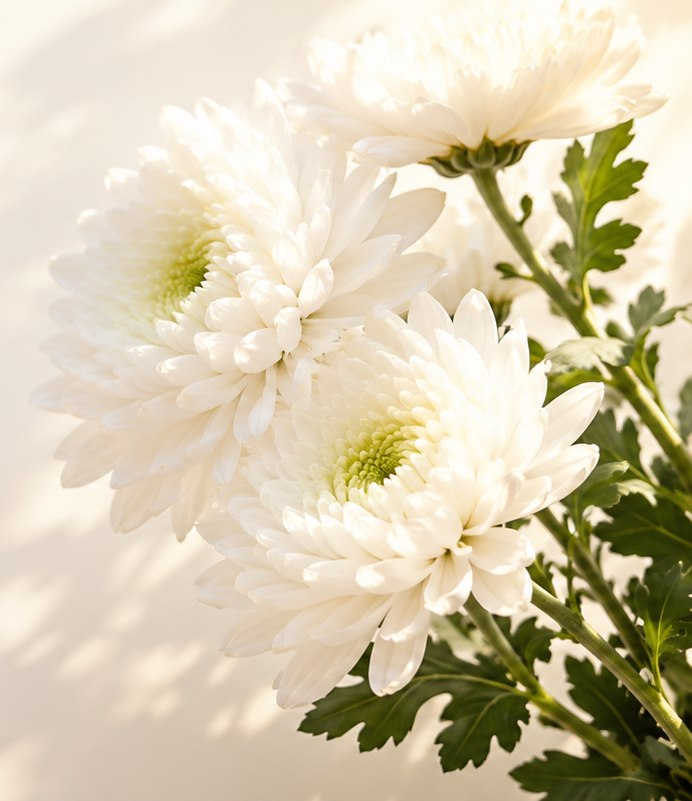
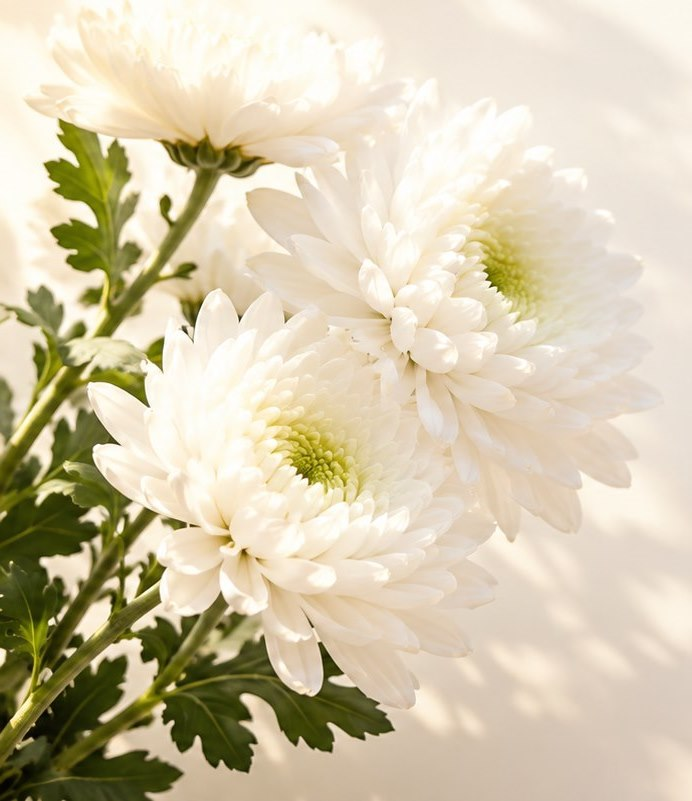
히어로 국화 좌우반전(꽃송이 우상단 노출) + 위치·캐시 조정 (m119)

diff --git a/hero-modern.css b/hero-modern.css
@@ -51,9 +51,9 @@
     content:"";
     position:absolute; top:-2%; right:-4%;
     width:60%; height:60%;
-    background:url('hero-chrys.jpg') no-repeat right top;
+    background:url('hero-chrys.jpg?v=2') no-repeat right 28%;
     background-size:cover;
-    opacity:.34;
+    opacity:.36;
     mix-blend-mode:screen;
     -webkit-mask-image:radial-gradient(115% 100% at 100% 0%, #000 18%, rgba(0,0,0,.42) 46%, transparent 74%);
             mask-image:radial-gradient(115% 100% at 100% 0%, #000 18%, rgba(0,0,0,.42) 46%, transparent 74%);

diff --git a/index.html b/index.html
@@ -17,7 +17,7 @@
 <link href="https://fonts.googleapis.com/css2?family=Noto+Serif+KR:wght@400;500;700;900&family=Noto+Sans+KR:wght@400;500;700;900&display=swap" rel="stylesheet">
 <link rel="stylesheet" href="style.css?v=20260722-ui2">
 <link rel="stylesheet" href="hero119-v4.css?v=20260722-ui2">
-<link rel="stylesheet" href="hero-modern.css?v=20260727-m118">
+<link rel="stylesheet" href="hero-modern.css?v=20260727-m119">
 </head>
 <body>
 <nav class="nav">

diff --git a/family.html b/family.html
@@ -14,7 +14,7 @@
 <link rel="preconnect" href="https://fonts.gstatic.com" crossorigin>
 <link href="https://fonts.googleapis.com/css2?family=Noto+Serif+KR:wght@400;500;700;900&family=Noto+Sans+KR:wght@400;500;700;900&display=swap" rel="stylesheet">
 <link rel="stylesheet" href="style.css">
-<link rel="stylesheet" href="hero-modern.css?v=20260727-m118">
+<link rel="stylesheet" href="hero-modern.css?v=20260727-m119">
 </head>
 <body>
 <nav class="nav">

diff --git a/faq.html b/faq.html
@@ -13,7 +13,7 @@
 <link rel="preconnect" href="https://fonts.gstatic.com" crossorigin>
 <link href="https://fonts.googleapis.com/css2?family=Noto+Serif+KR:wght@400;500;700;900&family=Noto+Sans+KR:wght@400;500;700;900&display=swap" rel="stylesheet">
 <link rel="stylesheet" href="style.css">
-<link rel="stylesheet" href="hero-modern.css?v=20260727-m118">
+<link rel="stylesheet" href="hero-modern.css?v=20260727-m119">
 </head>
 <body>
 <nav class="nav">

diff --git a/hall-bukgu.html b/hall-bukgu.html
@@ -14,7 +14,7 @@
 <link rel="preconnect" href="https://fonts.gstatic.com" crossorigin>
 <link href="https://fonts.googleapis.com/css2?family=Noto+Serif+KR:wght@400;500;700;900&family=Noto+Sans+KR:wght@400;500;700;900&display=swap" rel="stylesheet">
 <link rel="stylesheet" href="style.css">
-<link rel="stylesheet" href="hero-modern.css?v=20260727-m118">
+<link rel="stylesheet" href="hero-modern.css?v=20260727-m119">
 </head>
 <body>
 <nav class="nav">

diff --git a/hall-detail-1000000427.html b/hall-detail-1000000427.html
@@ -14,7 +14,7 @@
 <link rel="preconnect" href="https://fonts.gstatic.com" crossorigin>
 <link href="https://fonts.googleapis.com/css2?family=Noto+Serif+KR:wght@400;500;700;900&family=Noto+Sans+KR:wght@400;500;700;900&display=swap" rel="stylesheet">
 <link rel="stylesheet" href="style.css">
-<link rel="stylesheet" href="hero-modern.css?v=20260727-m118">
+<link rel="stylesheet" href="hero-modern.css?v=20260727-m119">
 </head>
 <body>
 <nav class="nav">

diff --git a/hall-detail-1000000453.html b/hall-detail-1000000453.html
@@ -14,7 +14,7 @@
 <link rel="preconnect" href="https://fonts.gstatic.com" crossorigin>
 <link href="https://fonts.googleapis.com/css2?family=Noto+Serif+KR:wght@400;500;700;900&family=Noto+Sans+KR:wght@400;500;700;900&display=swap" rel="stylesheet">
 <link rel="stylesheet" href="style.css">
-<link rel="stylesheet" href="hero-modern.css?v=20260727-m118">
+<link rel="stylesheet" href="hero-modern.css?v=20260727-m119">
 </head>
 <body>
 <nav class="nav">

diff --git a/hall-detail-1000000484.html b/hall-detail-1000000484.html
@@ -14,7 +14,7 @@
 <link rel="preconnect" href="https://fonts.gstatic.com" crossorigin>
 <link href="https://fonts.googleapis.com/css2?family=Noto+Serif+KR:wght@400;500;700;900&family=Noto+Sans+KR:wght@400;500;700;900&display=swap" rel="stylesheet">
 <link rel="stylesheet" href="style.css">
-<link rel="stylesheet" href="hero-modern.css?v=20260727-m118">
+<link rel="stylesheet" href="hero-modern.css?v=20260727-m119">
 </head>
 <body>
 <nav class="nav">

diff --git a/hall-detail-1000000658.html b/hall-detail-1000000658.html
@@ -14,7 +14,7 @@
 <link rel="preconnect" href="https://fonts.gstatic.com" crossorigin>
 <link href="https://fonts.googleapis.com/css2?family=Noto+Serif+KR:wght@400;500;700;900&family=Noto+Sans+KR:wght@400;500;700;900&display=swap" rel="stylesheet">
 <link rel="stylesheet" href="style.css">
-<link rel="stylesheet" href="hero-modern.css?v=20260727-m118">
+<link rel="stylesheet" href="hero-modern.css?v=20260727-m119">
 </head>
 <body>
 <nav class="nav">

diff --git a/hall-detail-1000000776.html b/hall-detail-1000000776.html
@@ -14,7 +14,7 @@
 <link rel="preconnect" href="https://fonts.gstatic.com" crossorigin>
 <link href="https://fonts.googleapis.com/css2?family=Noto+Serif+KR:wght@400;500;700;900&family=Noto+Sans+KR:wght@400;500;700;900&display=swap" rel="stylesheet">
 <link rel="stylesheet" href="style.css">
-<link rel="stylesheet" href="hero-modern.css?v=20260727-m118">
+<link rel="stylesheet" href="hero-modern.css?v=20260727-m119">
 </head>
 <body>
 <nav class="nav">

diff --git a/hall-detail-1000000846.html b/hall-detail-1000000846.html
@@ -14,7 +14,7 @@
 <link rel="preconnect" href="https://fonts.gstatic.com" crossorigin>
 <link href="https://fonts.googleapis.com/css2?family=Noto+Serif+KR:wght@400;500;700;900&family=Noto+Sans+KR:wght@400;500;700;900&display=swap" rel="stylesheet">
 <link rel="stylesheet" href="style.css">
-<link rel="stylesheet" href="hero-modern.css?v=20260727-m118">
+<link rel="stylesheet" href="hero-modern.css?v=20260727-m119">
 </head>
 <body>
 <nav class="nav">

diff --git a/hall-detail-7000000584.html b/hall-detail-7000000584.html
@@ -14,7 +14,7 @@
 <link rel="preconnect" href="https://fonts.gstatic.com" crossorigin>
 <link href="https://fonts.googleapis.com/css2?family=Noto+Serif+KR:wght@400;500;700;900&family=Noto+Sans+KR:wght@400;500;700;900&display=swap" rel="stylesheet">
 <link rel="stylesheet" href="style.css">
-<link rel="stylesheet" href="hero-modern.css?v=20260727-m118">
+<link rel="stylesheet" href="hero-modern.css?v=20260727-m119">
 </head>
 <body>
 <nav class="nav">
